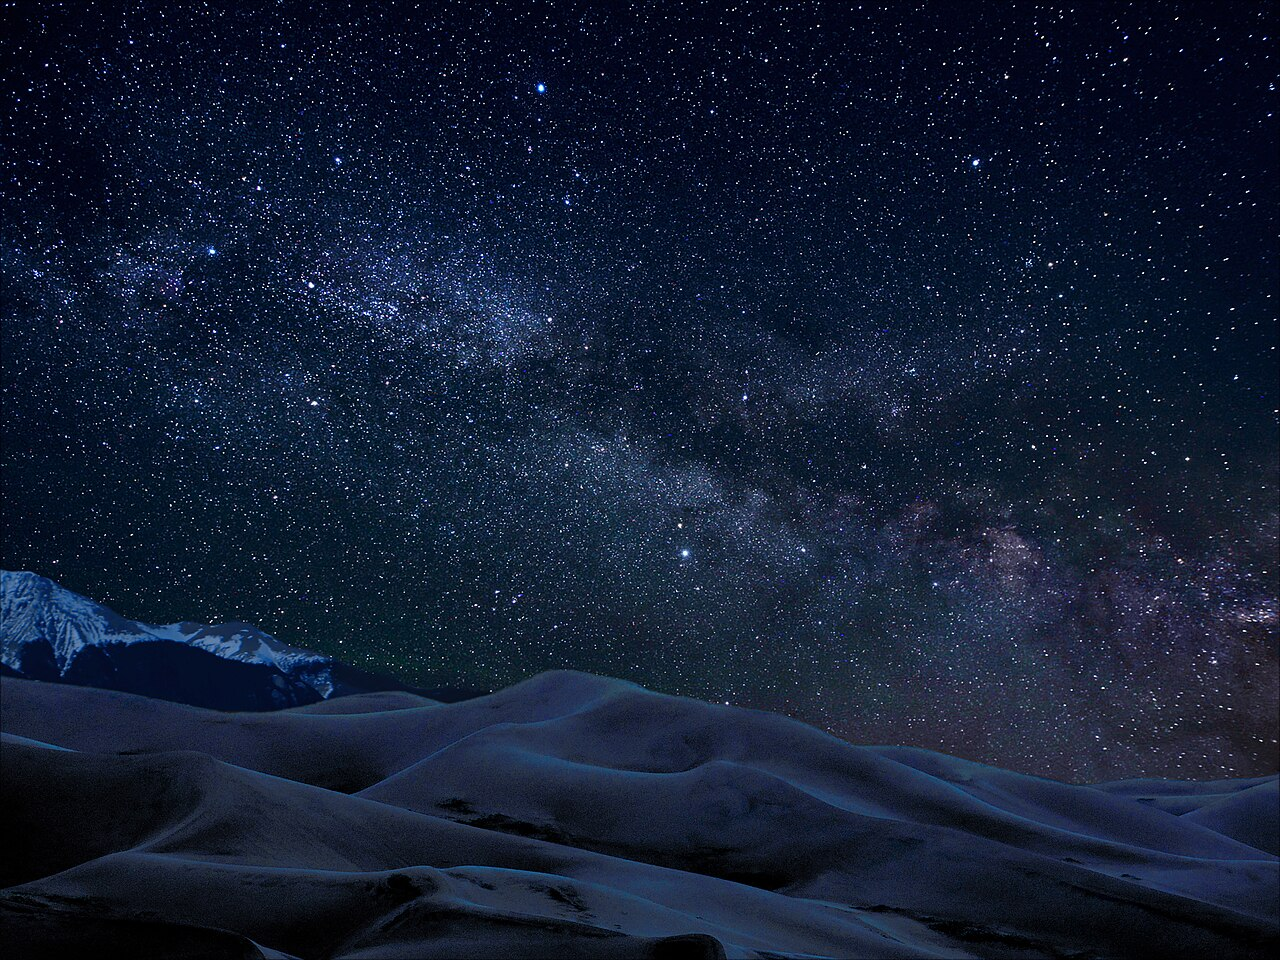
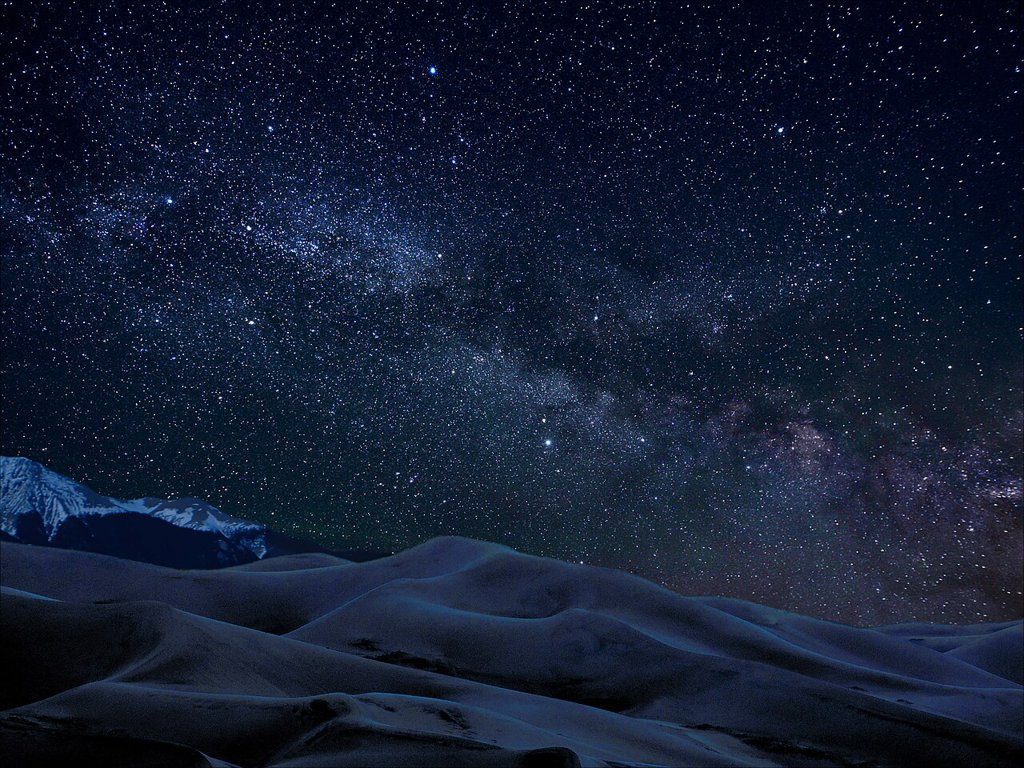
Pictures: every one a JPEG of at most 1024 px, under the 1 MiB a group takes

diff --git a/tools/fetch_pictures.py b/tools/fetch_pictures.py
@@ -86,6 +86,18 @@ def find(words: str):
     return None
 
 
+def as_jpeg(data: bytes) -> bytes:
+    """The same picture as a JPEG of at most 1024 px, well under the 1 MiB a demo group
+    and a node take per file (the client cleans its metadata when it posts it)."""
+    import io
+    from PIL import Image
+    im = Image.open(io.BytesIO(data)).convert("RGB")
+    im.thumbnail((1024, 1024))
+    out = io.BytesIO()
+    im.save(out, "JPEG", quality=85, optimize=True)
+    return out.getvalue()
+
+
 def main() -> None:
     """All pictures, or only those named on the command line (keeping the others)."""
     OUT.mkdir(parents=True, exist_ok=True)
@@ -99,11 +111,11 @@ def main() -> None:
         if not found:
             print(f"{name}: nothing with a licence we accept", file=sys.stderr)
             continue
-        ext = ".png" if found["url"].lower().endswith(".png") else ".jpg"
         req = urllib.request.Request(found["url"], headers={"User-Agent": UA})
         with urllib.request.urlopen(req, timeout=60) as r:
-            (OUT / f"{name}{ext}").write_bytes(r.read())
-        credits[name] = {**found, "file": f"content/pictures/{name}{ext}"}
+            data = r.read()
+        (OUT / f"{name}.jpg").write_bytes(as_jpeg(data))
+        credits[name] = {**found, "file": f"content/pictures/{name}.jpg"}
         print(f"{name}: {found['title']} ({found['license']}, {found['author'][:40]})")
         time.sleep(1)                       # be polite to Commons
     (OUT / "credits.json").write_text(json.dumps(credits, indent=2, ensure_ascii=False) + "\n")
